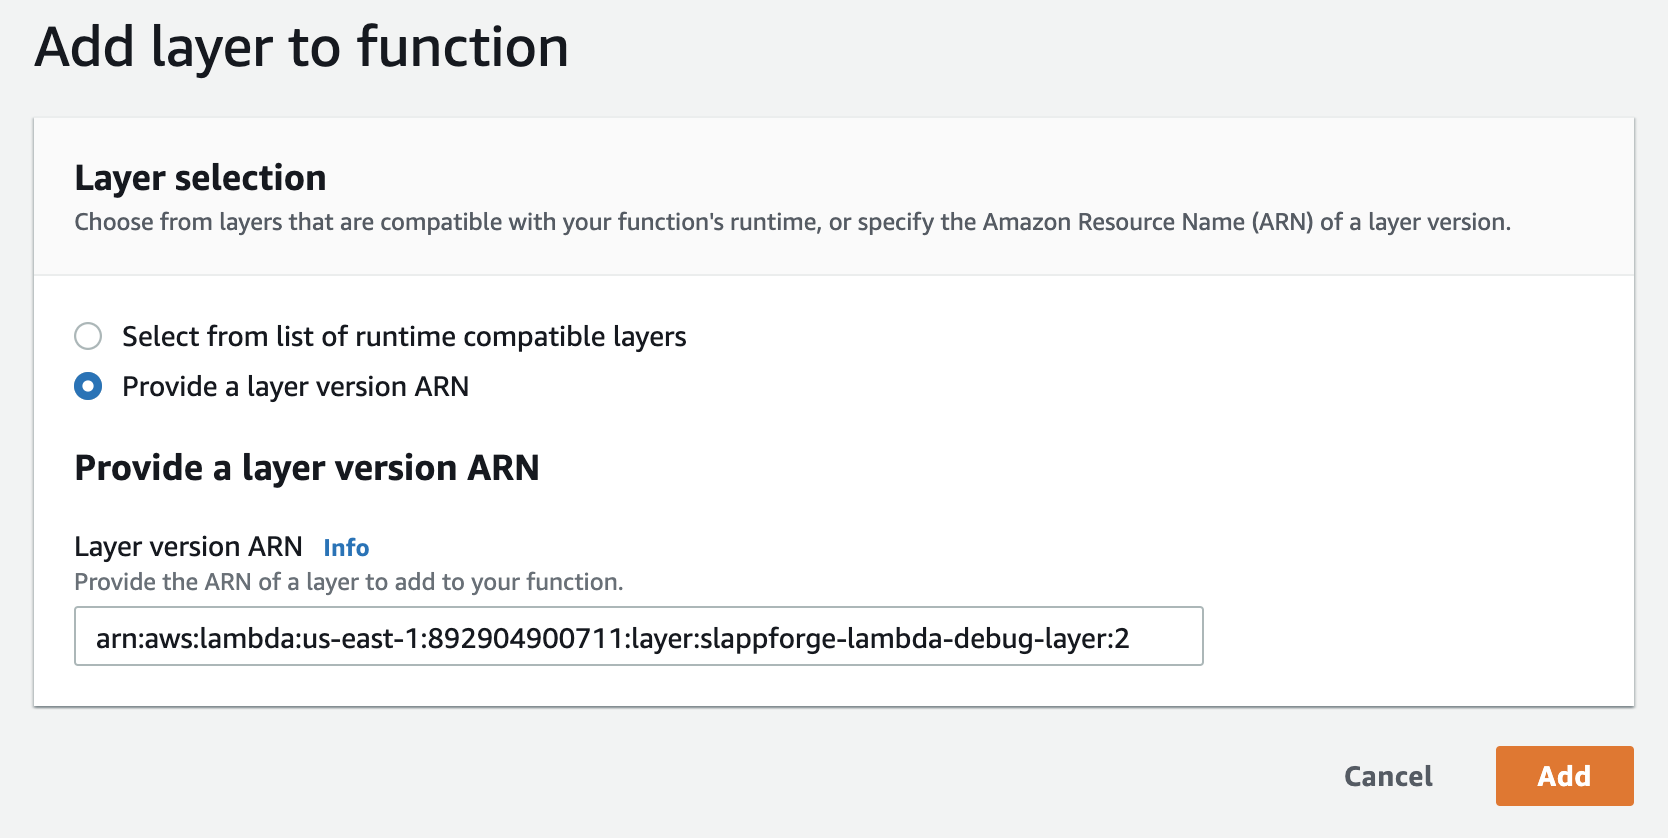
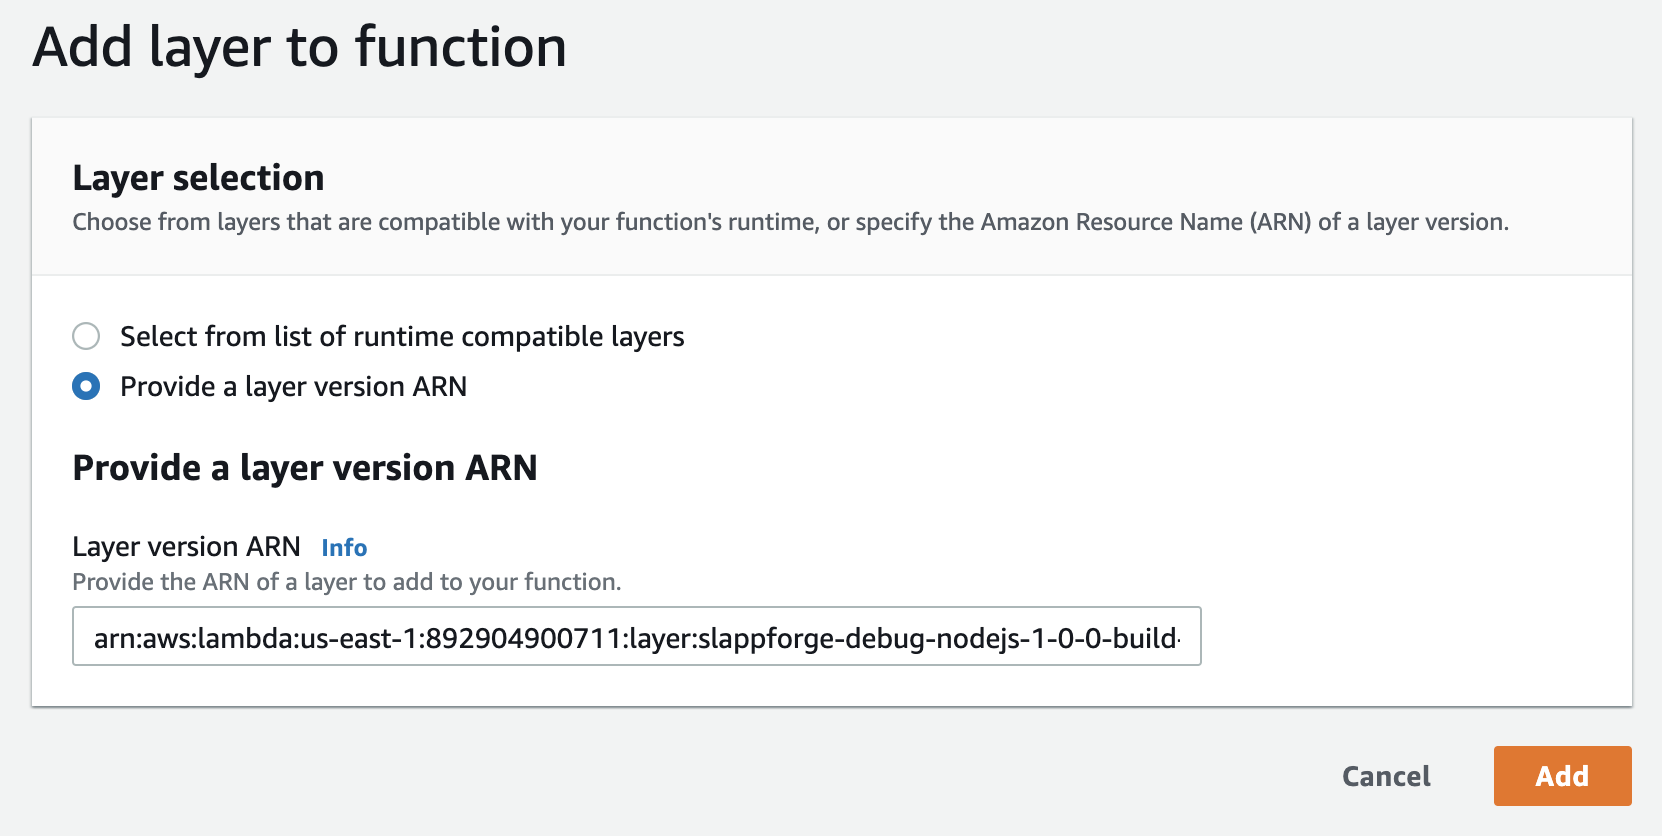
Updated NodeJS layer ARN

diff --git a/nodejs-debugging/README.md b/nodejs-debugging/README.md
@@ -83,7 +83,7 @@ Click on the **Layers** button on the **Designer** section and choose to **Add a
 module.
 
 ```
-arn:aws:lambda:us-east-1:892904900711:layer:slappforge-lambda-debug-layer:2
+arn:aws:lambda:us-east-1:892904900711:layer:slappforge-debug-nodejs-1-0-0-build-01:1
 ```
 
 ![Adding Debug Proxy Layer](images/lambda-layer-config.png "Debug Proxy Layer")
